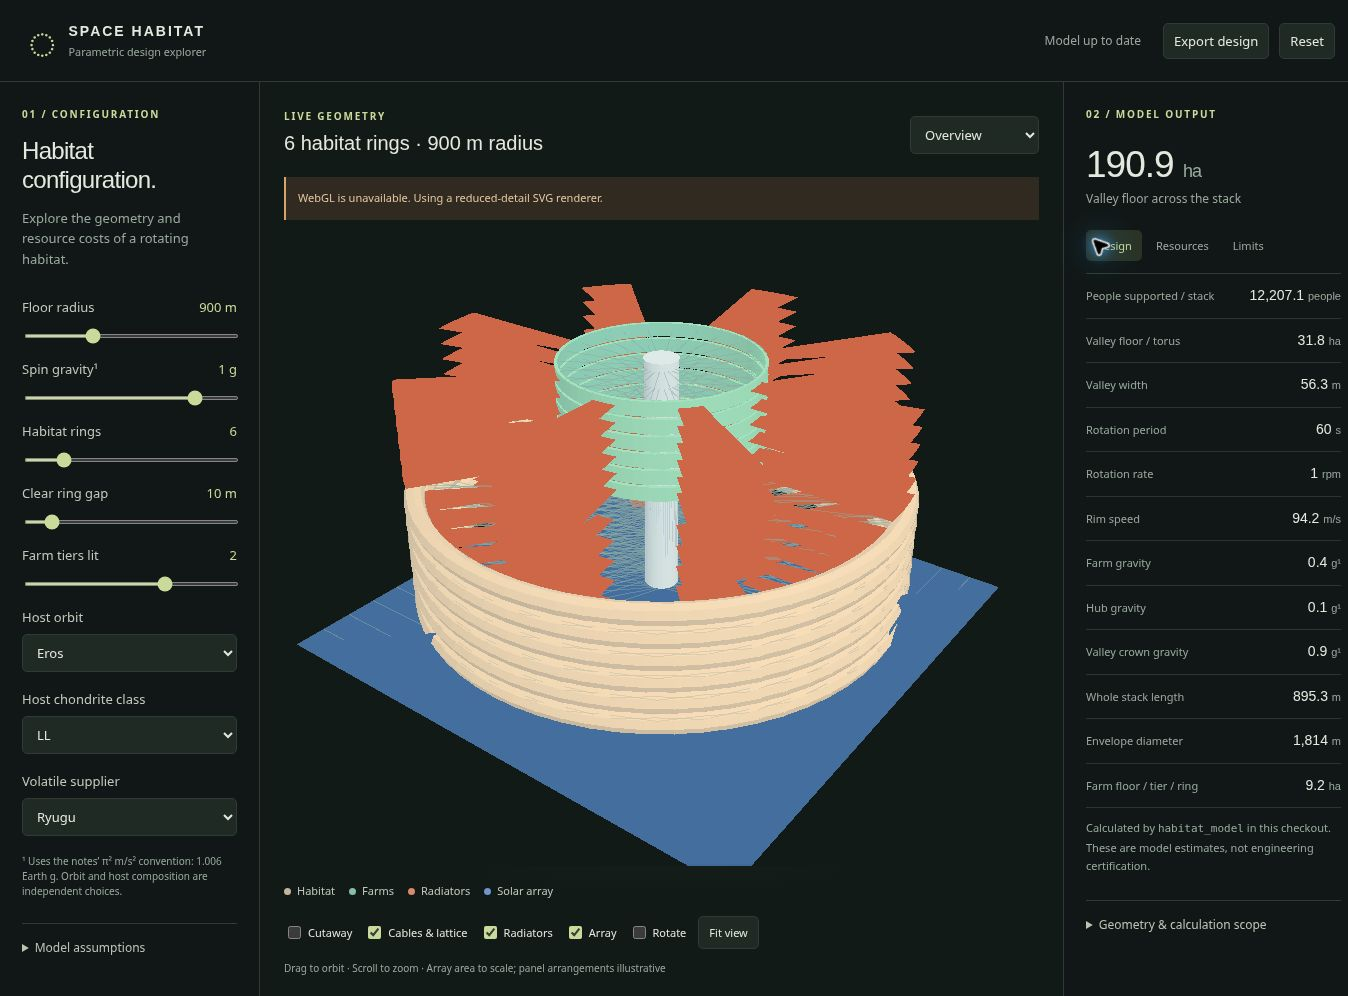
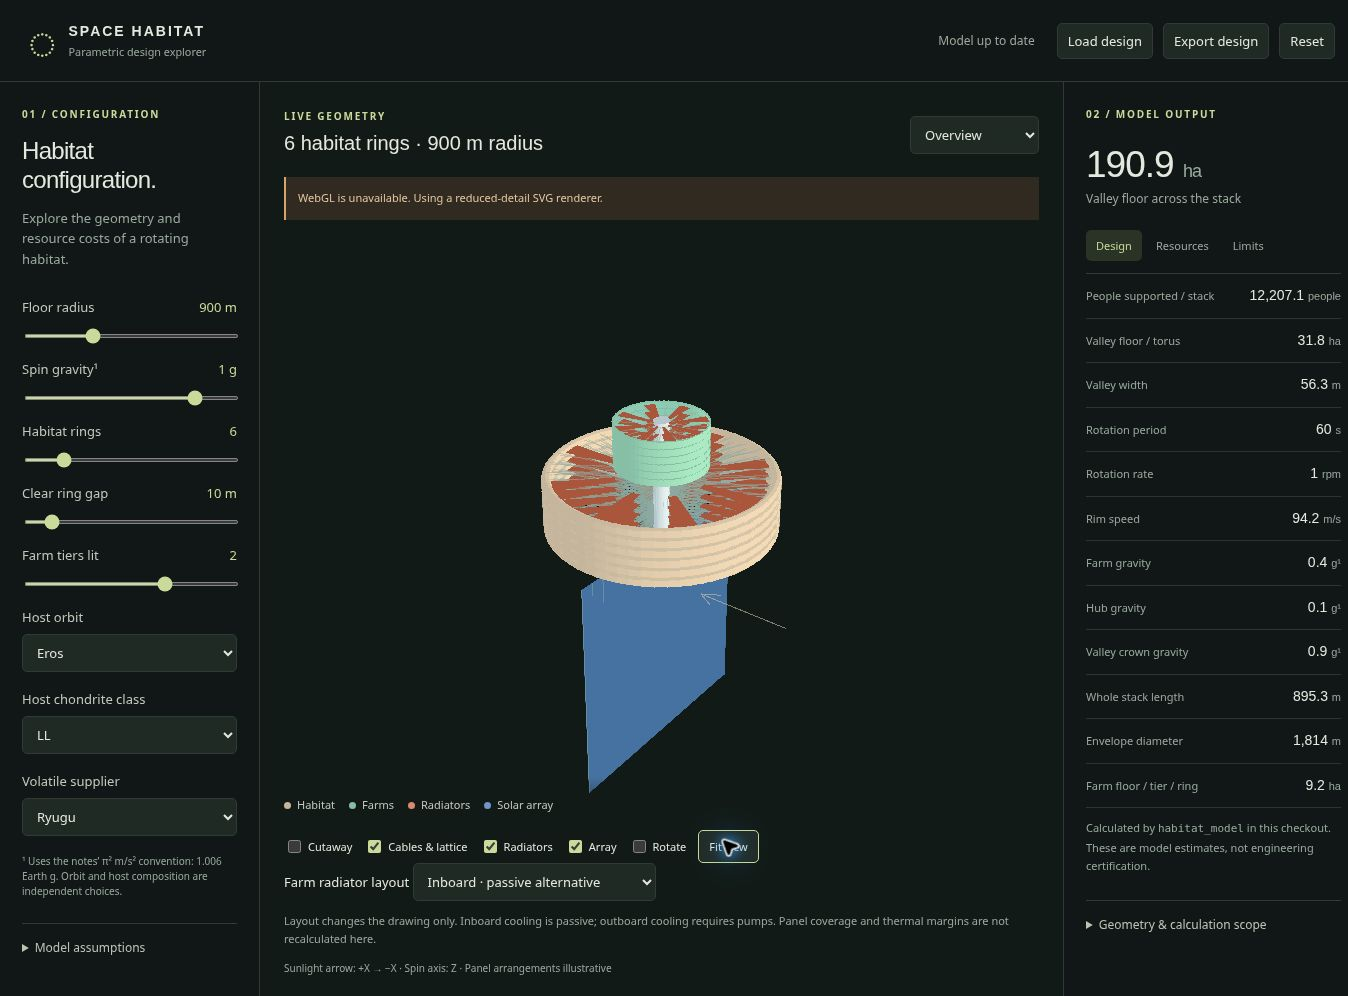
Face the solar array toward the Sun and expose farm radiator layouts

Changed region(s): [[0.2181, 0.2801, 0.7478, 0.996], [0.7166, 0.0311, 0.8412, 0.0622], [0.8101, 0.2179, 0.8412, 0.2801]]

diff --git a/explorer/app.js b/explorer/app.js
@@ -1,3 +1,4 @@
+import { solarLayout, farmRadiatorBounds } from "./scene-layout.js";
 import * as THREE from "three";
 import { SVGRenderer } from "three/addons/renderers/SVGRenderer.js";
 import { OrbitControls } from "three/addons/controls/OrbitControls.js";
@@ -251,7 +252,7 @@ controls.minDistance = 5;
 if (software) scene.add(new THREE.AmbientLight(0xffffff, 0.65));
 scene.add(new THREE.HemisphereLight(0xe5efcf, 0x34433b, software ? 0.7 : 2.3));
 const sun = new THREE.DirectionalLight(0xffead2, software ? 0.7 : 3);
-sun.position.set(2000, -1000, 3000);
+sun.position.set(5000, 0, 0);
 scene.add(sun);
 const fill = new THREE.DirectionalLight(0x9ebcda, software ? 0.35 : 1.4);
 fill.position.set(-2000, 1000, -1000);
@@ -485,16 +486,20 @@ function rebuild() {
           rad(fr, (j * Math.PI) / 12, fz),
         );
     if ($("radiators").checked && d.tiers_lit > 0)
-      for (let j = 0; j < 8; j++) {
-        const panel = annulus(
-          fr + fh,
-          g.farm_radiator_outer,
-          fz,
-          materials.radiator,
-          Math.PI / 14,
-        );
-        panel.rotation.z = (j * Math.PI) / 4;
-      }
+      for (const [inner, outer] of farmRadiatorBounds(
+        g,
+        $("farm-layout").value,
+      ))
+        for (let j = 0; j < 8; j++) {
+          const panel = annulus(
+            inner,
+            outer,
+            fz,
+            materials.radiator,
+            Math.PI / 14,
+          );
+          panel.rotation.z = (j * Math.PI) / 4;
+        }
   }
   if (!section) {
     const hub = mesh(
@@ -511,35 +516,51 @@ function rebuild() {
   let arrayZ = z0 - 100;
   extent = Math.max(g.envelope_outer, g.stack_length / 2);
   if ($("array").checked && !section) {
-    const side = Math.sqrt(current.results.power.array_site * n);
-    arrayZ = z0 - g.hub_radius - 100;
-    const panel = mesh(
-      new THREE.PlaneGeometry(side, side),
-      materials.solar,
-      stationary,
+    const layout = solarLayout(
+      g.stack_length,
+      current.results.power.array_site * n,
     );
-    panel.position.z = arrayZ;
-    const gridMat = materials.line;
+    const { side } = layout;
+    arrayZ = layout.z;
+    const array = new THREE.Group();
+    array.quaternion.setFromUnitVectors(
+      new THREE.Vector3(0, 0, 1),
+      new THREE.Vector3(...layout.normal),
+    );
+    array.position.z = arrayZ;
+    stationary.add(array);
+    mesh(new THREE.PlaneGeometry(side, side), materials.solar, array);
     for (let i = 0; i <= 16; i++) {
       const v = -side / 2 + (i * side) / 16;
-      line(
-        [v, -side / 2, arrayZ + 0.2],
-        [v, side / 2, arrayZ + 0.2],
-        gridMat,
-        stationary,
-      );
-      line(
-        [-side / 2, v, arrayZ + 0.2],
-        [side / 2, v, arrayZ + 0.2],
-        gridMat,
-        stationary,
-      );
+      line([v, -side / 2, 0.2], [v, side / 2, 0.2], materials.line, array);
+      line([-side / 2, v, 0.2], [side / 2, v, 0.2], materials.line, array);
     }
-    extent = Math.max(extent, side * 0.72, Math.abs(arrayZ));
+    // Illustrative axial support and sunlight arrow, both despun.
+    line([0, 0, z0], [0, 0, arrayZ], materials.brace, stationary);
+    const arrowZ = arrayZ + side * 0.3;
+    line(
+      [side * 0.6, 0, arrowZ],
+      [side * 0.2, 0, arrowZ],
+      materials.brace,
+      stationary,
+    );
+    line(
+      [side * 0.2, 0, arrowZ],
+      [side * 0.27, side * 0.04, arrowZ],
+      materials.brace,
+      stationary,
+    );
+    line(
+      [side * 0.2, 0, arrowZ],
+      [side * 0.27, -side * 0.04, arrowZ],
+      materials.brace,
+      stationary,
+    );
+    extent = Math.max(extent, side * 0.72, Math.abs(arrayZ) + side / 2);
   }
   $("scene-note").textContent = cut
     ? "Cutaway · Uniform jacket; schematic floor · Cable counts reduced for clarity"
-    : "Drag to orbit · Scroll to zoom · Array area to scale; panel arrangements illustrative";
+    : "Sunlight arrow: +X → −X · Spin axis: Z · Panel arrangements illustrative";
   if (first) {
     fit();
     first = false;
@@ -607,7 +628,7 @@ function animate(now) {
   requestAnimationFrame(animate);
 }
 requestAnimationFrame(animate);
-for (const id of ["cutaway", "structure", "radiators", "array"])
+for (const id of ["cutaway", "structure", "radiators", "array", "farm-layout"])
   $(id).addEventListener("change", rebuild);
 $("view").addEventListener("change", () => {
   rebuild();
@@ -656,6 +677,8 @@ $("design-file").addEventListener("change", async () => {
     design = data.design;
     overrides = data.overrides;
     current = data;
+    $("farm-layout").value = saved.viewer?.farm_layout ?? "outboard";
+    if (!$("farm-layout").value) $("farm-layout").value = "outboard";
     renderInputs();
     renderStats();
     first = true;
@@ -681,6 +704,7 @@ $("export").addEventListener("click", () => {
         {
           schema_version: 1,
           ...current,
+          viewer: { farm_layout: $("farm-layout").value },
           scope: "System-model estimates; see explorer/README.md",
         },
         null,

diff --git a/explorer/index.html b/explorer/index.html
@@ -81,6 +81,17 @@
             ><label><input id="spin" type="checkbox" /> Rotate</label
             ><button id="fit">Fit view</button>
           </div>
+          <label for="farm-layout">Farm radiator layout</label>
+          <select id="farm-layout">
+            <option value="outboard">Outboard · pumped baseline</option>
+            <option value="inboard">Inboard · passive alternative</option>
+            <option value="both">Both · pumped + passive fallback</option>
+          </select>
+          <p class="model-note">
+            Layout changes the drawing only. Inboard cooling is passive;
+            outboard cooling requires pumps. Panel coverage and thermal margins
+            are not recalculated here.
+          </p>
           <p id="scene-note">
             Drag to orbit · Scroll to zoom · Dimensions in metres
           </p>
@@ -109,10 +120,11 @@
             construction drawings.
           </p>
           <p>
-            The array has the calculated stack area, drawn as one square beyond
-            the hub. Radiators show their available radial reach, not a
-            thermally sized panel layout. The jacket is drawn uniformly; the
-            mass calculation includes the floor fill’s shielding credit.
+            The array has the calculated stack area, drawn as one Sun-facing
+            square beyond the hub, with its normal in the orbital plane.
+            Radiators show their available radial reach, not a thermally sized
+            panel layout. The jacket is drawn uniformly; the mass calculation
+            includes the floor fill’s shielding credit.
           </p>
           <p>
             Heat and inertia figures below are the inexpensive system-model

diff --git a/explorer/test_scene.js b/explorer/test_scene.js
@@ -1,0 +1,28 @@
+import test from "node:test";
+import assert from "node:assert/strict";
+import { solarLayout, farmRadiatorBounds } from "./scene-layout.js";
+
+test("solar normal faces the Sun and is perpendicular to spin axis", () => {
+  const p = solarLayout(900, 3e6);
+  assert.equal(
+    p.normal.reduce((s, v, i) => s + v * p.toSun[i], 0),
+    1,
+  );
+  assert.equal(p.normal[2], 0);
+  assert.ok(Math.abs(p.side ** 2 - 3e6) < 1e-6);
+  assert.ok(p.z + p.side / 2 < -900 / 2);
+});
+test("farm panels stay on the selected side of the farm envelope", () => {
+  const g = {
+    hub_radius: 60,
+    farm_radius: 360,
+    farm_height: 8.5,
+    farm_radiator_outer: 900,
+  };
+  assert.deepEqual(farmRadiatorBounds(g, "inboard"), [[60, 355.75]]);
+  assert.deepEqual(farmRadiatorBounds(g, "outboard"), [[364.25, 900]]);
+  assert.deepEqual(farmRadiatorBounds(g, "both"), [
+    [60, 355.75],
+    [364.25, 900],
+  ]);
+});

diff --git a/explorer/scene-layout.js b/explorer/scene-layout.js
@@ -1,0 +1,16 @@
+// Drawing conventions: spin axis +Z; Sun at +X (orbit plane XY).
+export function solarLayout(stackLength, totalArea) {
+  const side = Math.sqrt(totalArea);
+  // Place the whole panel beyond the axial end, avoiding stack shadows.
+  const z = -stackLength / 2 - 100 - side / 2;
+  return { side, z, normal: [1, 0, 0], toSun: [1, 0, 0] };
+}
+
+export function farmRadiatorBounds(g, layout) {
+  const bounds = [];
+  if (layout === "inboard" || layout === "both")
+    bounds.push([g.hub_radius, g.farm_radius - g.farm_height / 2]);
+  if (layout === "outboard" || layout === "both")
+    bounds.push([g.farm_radius + g.farm_height / 2, g.farm_radiator_outer]);
+  return bounds;
+}

diff --git a/explorer/server.py b/explorer/server.py
@@ -22,7 +22,7 @@ DESIGN_RANGES = {
 OVERRIDE_RANGES = {
     'width_ratio': (8, 32), 'shield_areal_t_m2': (5, 20),
     'fill_depth_m': (0, 5), 'pressure_kpa': (40, 101.3),
-    'farm_radiator_outer_frac': (0.45, 0.9),
+    'farm_radiator_outer_frac': (0.45, 1.4),
 }
 
 

diff --git a/explorer/README.md b/explorer/README.md
@@ -25,7 +25,8 @@ Drag to orbit, scroll to zoom, or choose an axial, side or tube-section view. **
 - Valley envelopes use toroidal circular sections. Farm envelopes have rectangular sections, axial width and radial height. The two sections share a hub.
 - Cutaways show the pressure boundary, nominal rock jacket, crawl-space boundary and a schematic floor. The uniform drawn jacket does not show the floor-fill shielding credit used in the mass calculation. There is no terrain or detailed room layout.
 - Two tangent-chord side nets, hub lines, farm spokes and rim-gap X braces illustrate the structural architecture. Counts are reduced for clarity; sizes, exact anchor positions and fittings are not engineering drawings. No detailed structural solve runs in the viewer.
-- Solar area is the per-torus aphelion-sized system-model array multiplied by ring count, drawn as one square beyond the hub. This placement is illustrative. The factory's power supply is not included in that array.
+- Solar area is the per-torus aphelion-sized system-model array multiplied by ring count, drawn as one square beyond the hub, normal to the Sun direction (+X); the spin axis is +Z. The entire panel lies beyond the stack end to avoid stack shadows. A despun axial support and sunlight arrow are illustrative. This placement is illustrative. The factory's power supply is not included in that array.
+- Farm radiator layout can be outboard (pumped baseline), inboard (passive alternative), or both (pumped with passive fallback), as discussed in notes §13 and reports/heat_rejection.md. With LEDs, the report finds an inboard six-stack can cool three tiers at ~1.2–1.3× margin, below the 1.5× target; two tiers have ~1.8× at 900 m. Switching the layout does not rerun thermal calculations.
 - Radiator sectors show available radial reach only. They are not sized to the heat load. The reported panel area is a black-body, two-sided lower bound, not the rendered sectors' area or a mutually shaded thermal solution.
 - Torus mass excludes the separately reported farm and the hub/factory, array and radiators. No incomplete sum is labelled total stack mass.
 - Stability outputs are **rigid thin-ring inertia bounds**, not flexible whirl margins. The favourable baseline depends on the lattice in the detailed dynamics work. Heat margin is the **main drum's ideal end-aperture bound**, not assembled radiative exchange.
@@ -36,7 +37,8 @@ Drag to orbit, scroll to zoom, or choose an axial, side or tube-section view. **
 
 ```sh
 node --check explorer/app.js
+node --test explorer/test_scene.js
 python -m unittest discover -s tests -p 'test_explorer.py'
 ```
 
-![Explorer baseline, using the SVG fallback](preview.jpg)
+![Sun-facing array and inboard passive alternative, using the SVG fallback](preview.jpg)
